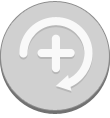
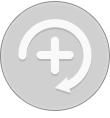
Styling photos

diff --git a/Snaptivist/PhotosViewController.m b/Snaptivist/PhotosViewController.m
@@ -43,6 +43,19 @@
         [self assignPhoto:[UIImage imageWithData:parent.signup.photo]];
         parent.signup.photo = nil;
     }
+    
+    // styling the photos
+    self.pic1.layer.borderColor = [UIColor colorWithRed:132/255.0f green:131/255.0f blue:131/255.0f alpha:1.0f].CGColor;
+    self.pic1.layer.borderWidth = 1.0;
+    
+    self.pic2.layer.borderColor = [UIColor colorWithRed:132/255.0f green:131/255.0f blue:131/255.0f alpha:1.0f].CGColor;
+    self.pic2.layer.borderWidth = 1.0;
+    
+    self.pic3.layer.borderColor = [UIColor colorWithRed:132/255.0f green:131/255.0f blue:131/255.0f alpha:1.0f].CGColor;
+    self.pic3.layer.borderWidth = 1.0;
+    
+    self.pic4.layer.borderColor = [UIColor colorWithRed:132/255.0f green:131/255.0f blue:131/255.0f alpha:1.0f].CGColor;
+    self.pic4.layer.borderWidth = 1.0;
 
 }
 -(void)viewDidAppear:(BOOL)animated {

diff --git a/Snaptivist/FormViewController.m b/Snaptivist/FormViewController.m
@@ -7,6 +7,7 @@
 //
 
 #import "FormViewController.h"
+#import <QuartzCore/QuartzCore.h>
 
 @interface FormViewController ()
 
@@ -25,6 +26,11 @@
     SnaptivistTabs *parent = [self tabController];
     context = parent.context;
     signup = parent.signup;
+    
+    // styling the photo
+    self.photo.layer.cornerRadius = 5.0;
+    self.photo.layer.borderColor = [UIColor colorWithRed:132/255.0f green:131/255.0f blue:131/255.0f alpha:1.0f].CGColor;
+    self.photo.layer.borderWidth = 1.0;
 
     [self.first_name becomeFirstResponder];
 }
